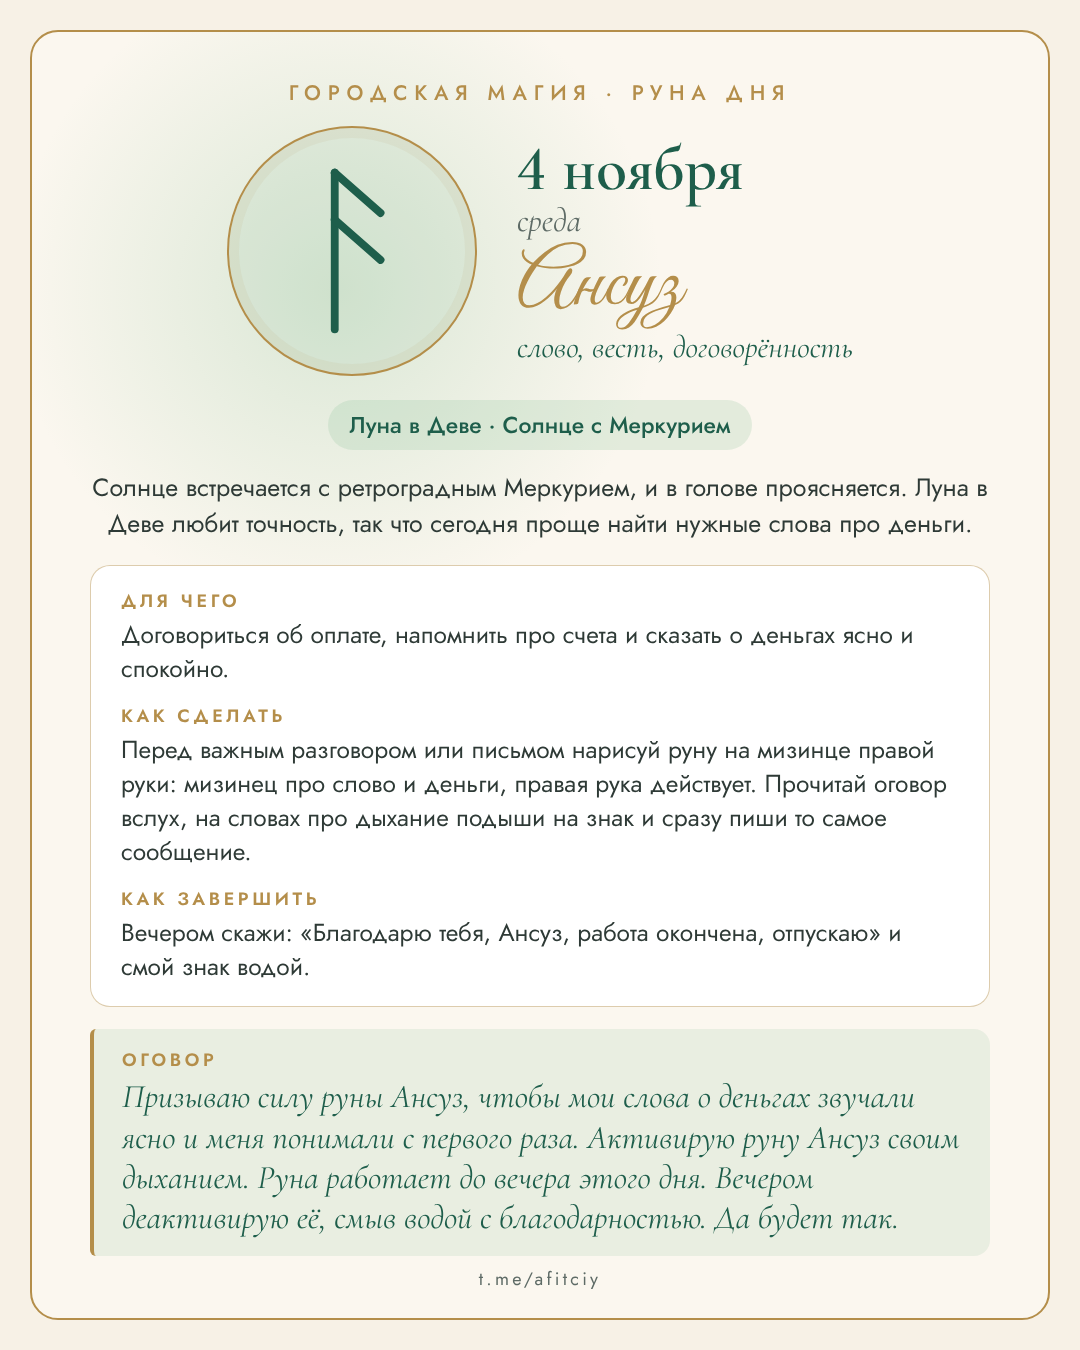
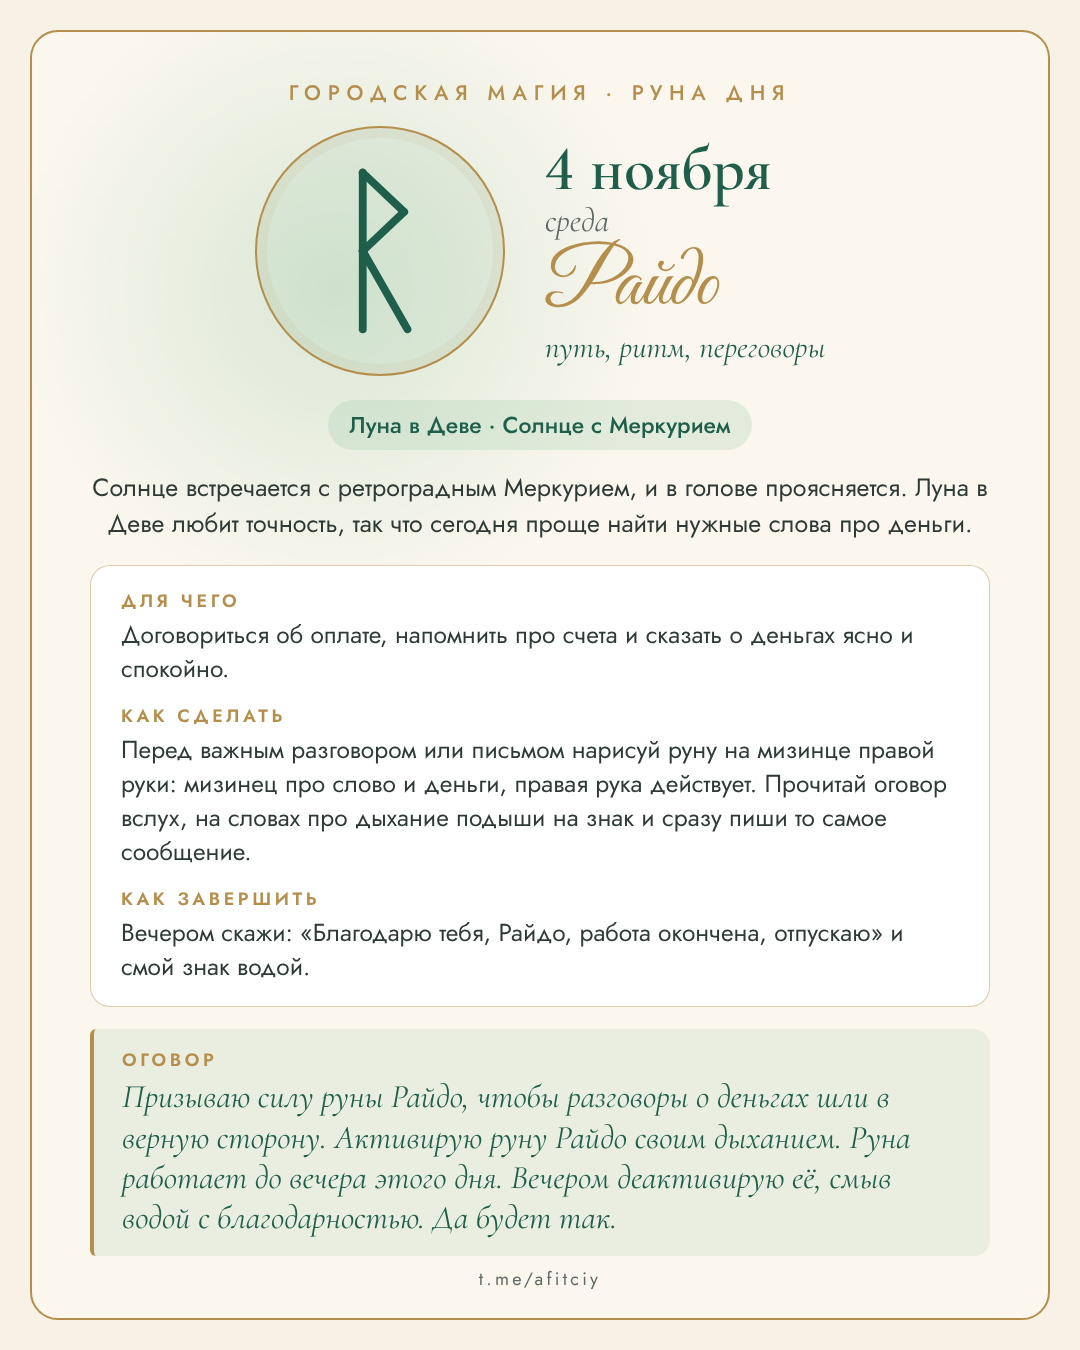
Знак дня: все 24 руны футарка, мягкий режим для тяжёлых рун; 4.11 Райдо, 7.11 Эваз
Claude-Session: https://claude.ai/code/session_017754TTRrrNLe9ra3xgvJZq

diff --git a/daily/render.py b/daily/render.py
@@ -24,7 +24,21 @@ RUNES = {
  "teiwaz":  [(50,10,50,150),(50,10,20,45),(50,10,80,45)],
  "inguz":   [(50,20,80,80),(80,80,50,140),(50,140,20,80),(20,80,50,20)],
  "dagaz":   [(15,25,15,135),(85,25,85,135),(15,25,85,135),(85,25,15,135)],
+ "raidho":  [(35,10,35,150),(35,10,72,45),(72,45,35,80),(35,80,75,150)],
+ "eihwaz":  [(50,10,50,150),(50,10,78,38),(50,150,22,122)],
+ "perthro": [(30,10,30,150),(30,10,55,45),(55,45,80,15),(30,150,55,115),(55,115,80,145)],
+ "algiz":   [(50,10,50,150),(50,62,20,25),(50,62,80,25)],
+ "ehwaz":   [(20,10,20,150),(80,10,80,150),(20,10,50,55),(50,55,80,10)],
+ "mannaz":  [(20,10,20,150),(80,10,80,150),(20,10,80,70),(80,10,20,70)],
+ # Тяжёлые руны: только как знак дня с мягким толкованием, людям их не рисовать
+ "thurisaz":[(35,10,35,150),(35,45,72,80),(72,80,35,115)],
+ "hagalaz": [(25,10,25,150),(75,10,75,150),(25,60,75,100)],
+ "nauthiz": [(50,10,50,150),(25,60,75,100)],
+ "isa":     [(50,10,50,150)],
 }
+# В эти дни вместо рисования руны даём дыхательную или другую лёгкую практику,
+# а вместо оговора с призывом руны короткий настрой.
+GENTLE = {"thurisaz", "hagalaz", "nauthiz", "isa"}
 
 def rune_svg(key, size=330):
     lines = "".join(f'<line x1="{a}" y1="{b}" x2="{c}" y2="{d}"/>' for a,b,c,d in RUNES[key])
@@ -85,7 +99,7 @@ def page(d, story=False):
 <div class="sky">{e(d['sky'])}</div>
 <div class="txt">{e(d['about'])}</div>
 <div class="box"><b>ДЛЯ ЧЕГО</b><p>{e(d['purpose'])}</p><b>КАК СДЕЛАТЬ</b><p>{e(d['how'])}</p><b>КАК ЗАВЕРШИТЬ</b><p>{e(d['finish'])}</p></div>
-<div class="og"><b>ОГОВОР</b><p>{e(d['ogovor'])}</p></div>
+<div class="og"><b>{'НАСТРОЙ' if d['rune'] in GENTLE else 'ОГОВОР'}</b><p>{e(d['ogovor'])}</p></div>
 <div class="ft">t.me/afitciy</div>
 </div></body></html>"""
 
@@ -105,6 +119,10 @@ def main(path):
         pg = b.new_page(viewport={"width":1080,"height":1350})
         ps = b.new_page(viewport={"width":1080,"height":1920})
         for d in days:
+            if d["rune"] in GENTLE:
+                t = (d["how"] + " " + d["ogovor"] + " " + d["caption"]).lower()
+                if "рисуй" in t or "рисуем" in t or "призываю" in t or "активирую" in t:
+                    print(f"ВНИМАНИЕ {d['date']}: руну {d['rune']} людям не рисовать и не призывать, нужна лёгкая практика и настрой")
             shot(pg, d, False); shot(ps, d, True)
             cap = d["caption"].strip()
             if len(cap) > 1024: print(f"ВНИМАНИЕ {d['date']}: подпись {len(cap)} символов, больше 1024")

diff --git a/daily/WEEKLY.md b/daily/WEEKLY.md
@@ -16,8 +16,22 @@
 6. Посмотреть картинки, закоммитить `daily/queue/` и `daily/week.json`, запушить в main.
 
 ## Руны в render.py
-fehu, uruz, ansuz, kenaz, gebo, wunjo, jera, sowilo, teiwaz, berkana, laguz, inguz, dagaz, othala.
-Подбирать знак по смыслу дня, не повторять один знак чаще раза в неделю.
+Весь Старший футарк, 24 руны: fehu, uruz, thurisaz, ansuz, raidho, kenaz, gebo, wunjo, hagalaz, nauthiz, isa, jera,
+eihwaz, perthro, algiz, sowilo, teiwaz, berkana, ehwaz, mannaz, laguz, inguz, dagaz, othala.
+Это руна именно этого дня: подбирать по небу и смыслу дня из всех 24, не по привычке.
+Внутри недели знак не повторяется. И не ставить ту же руну на тот же день недели, что на прошлой неделе.
+
+**Тяжёлые руны: Турисаз, Хагалаз, Наутиз, Иса** (в render.py список GENTLE). Их можно ставить знаком дня,
+когда небо этого просит, но:
+- толкование только мягкое и бережное: Турисаз про личные границы и умение сказать «нет», Хагалаз про очищение
+  и обновление после перемен, Наутиз про то, что тебе на самом деле нужно, и терпение, Иса про паузу и тишину;
+- людям эти руны в работу НЕ давать: не рисовать на теле, на листочке, над водой, без призыва и активации руны;
+- вместо рисования в «Как сделать» дыхательная практика или другая лёгкая (тёплая вода, прогулка, пауза, тишина);
+- вместо оговора в поле ogovor короткий тёплый настрой от первого лица, без «Призываю…» и «Активирую…»
+  (на карточке блок подписывается «НАСТРОЙ»);
+- «Как завершить» тоже мягкое: поблагодарить себя за день, отпустить его;
+- в подписи объяснить руну спокойно и без жути и предложить ту же лёгкую практику.
+render.py предупредит, если в такой день в тексте осталось «рисуй», «призываю» или «активирую».
 
 ## Темы
 Главные темы канала: привлекательность и женская энергия (Чарование) и деньги. Примерно поровну.
@@ -25,6 +39,7 @@ fehu, uruz, ansuz, kenaz, gebo, wunjo, jera, sowilo, teiwaz, berkana, laguz, ing
 чт Юпитер, пт Венера, сб Сатурн, вс Солнце.
 
 ## Каждая карточка это маленький ритуал (требование Елены)
+Для тяжёлых рун (Турисаз, Хагалаз, Наутиз, Иса) вместо рисования и оговора лёгкая практика и настрой, см. выше.
 Не «нарисуй и скажи себе три слова», а конкретика:
 - **Для чего**: понятная цель на день (притяжение внимания, женственность, энергия, деньги, переговоры, очищение).
 - **Как сделать**: где и когда рисовать и почему именно там. Пальцы по хиромантии: большой и холм Венеры у его основания
